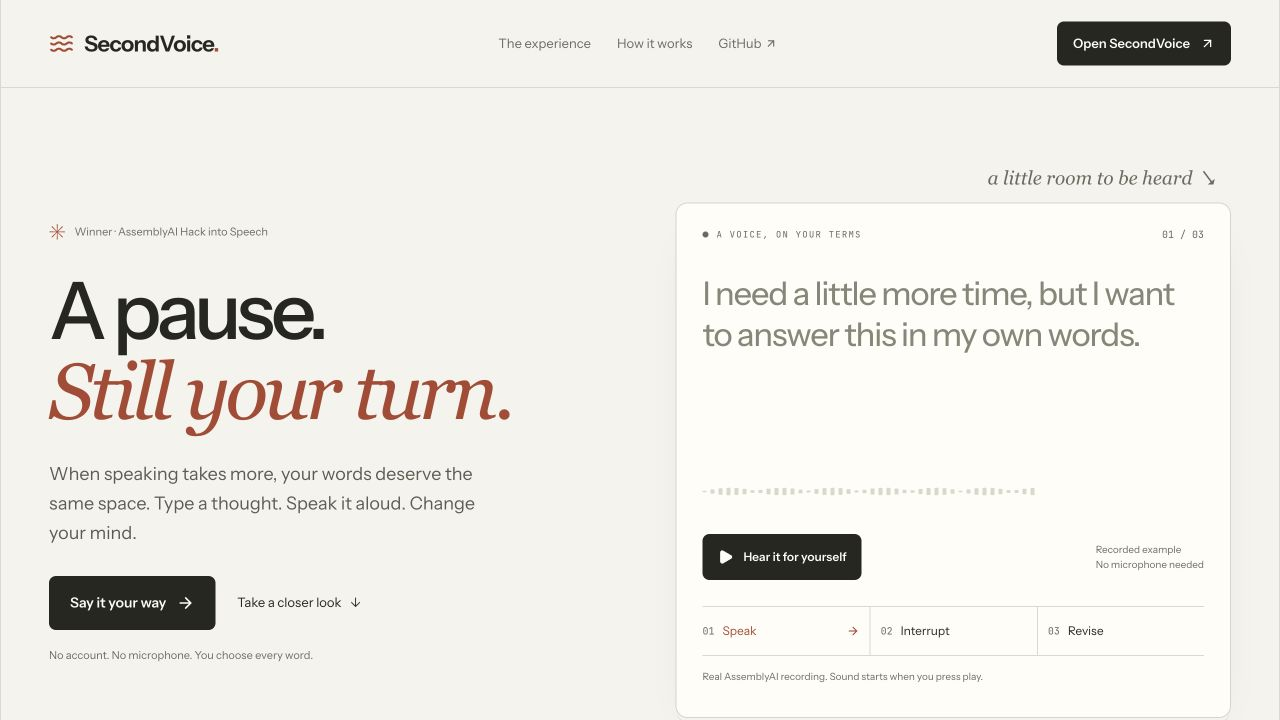
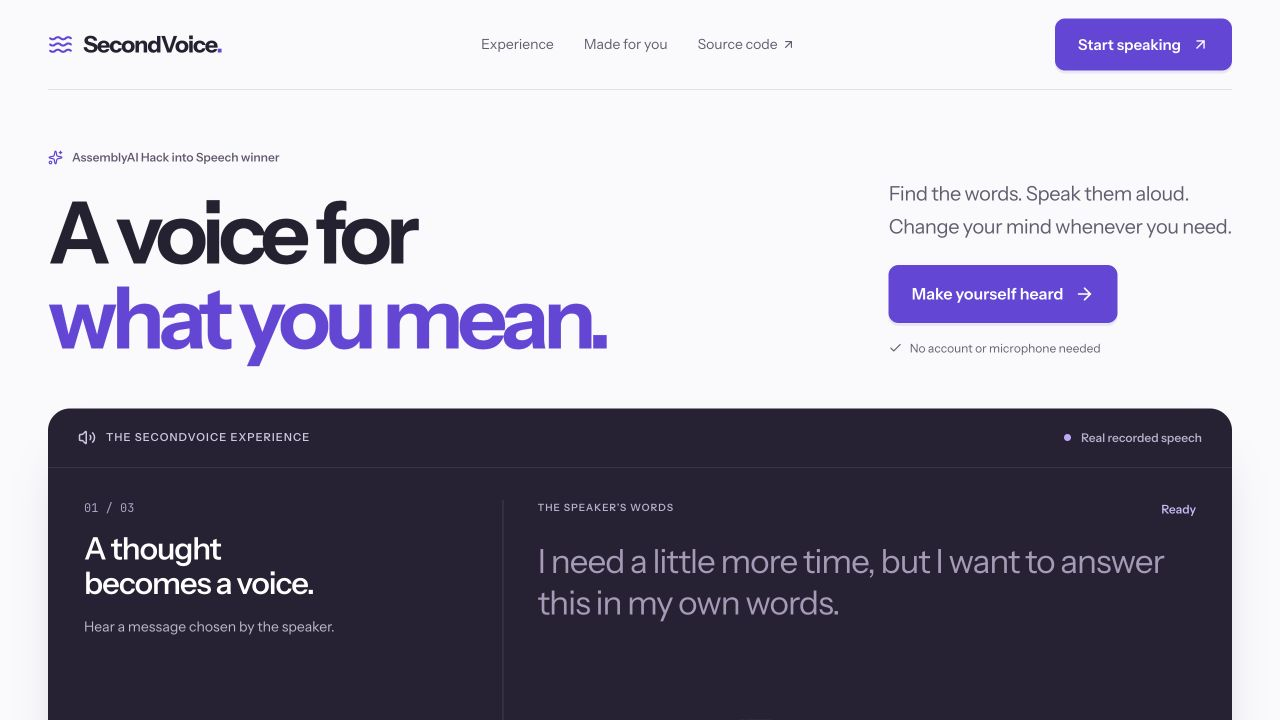
docs: redesigned product screenshots and speech animation

diff --git a/README.md b/README.md
@@ -4,7 +4,7 @@
 
 # SecondVoice
 
-### A pause. Still your turn.
+### A voice for what you mean.
 
 For moments when speaking takes more. Find your words, speak them aloud, and change your mind.
 
@@ -15,7 +15,7 @@ Built solo by [Tarang Goyal](https://github.com/taranggoyal70).
 
 <br />
 
-<a href="https://secondvoice-green.vercel.app"><img src="assets/readme/landing.png" width="100%" alt="SecondVoice’s landing page: A pause. Still your turn, alongside its interactive recorded speech example" /></a>
+<a href="https://secondvoice-green.vercel.app"><img src="assets/readme/landing.png" width="100%" alt="SecondVoice’s redesigned landing page: A voice for what you mean, with a dark interactive speech stage" /></a>
 
 <sub>No account. No microphone. You choose every word.</sub>
 
@@ -178,7 +178,7 @@ tests/                       Playback, lifecycle, phrases and origin checks
 
 SecondVoice is an **assistive communication prototype**, built solo with AI-assisted development. It is not a clinically validated AAC system, emergency communication service, or substitute for an individually assessed communication aid. It uses typed input and stock voices; it does not include voice cloning, automatic rewriting, speech recognition, or an agent system.
 
-Built with **Next.js, React, TypeScript, Web Audio, and AssemblyAI TTS**. The warm editorial presentation takes inspiration from [Continuity](https://github.com/aiden-guan/continuity). SecondVoice’s interface, copy, and implementation are its own. No Continuity source or assets were incorporated.
+Built with **Next.js, React, TypeScript, Web Audio, and AssemblyAI TTS**. The focus on interactive product storytelling takes inspiration from [Continuity](https://github.com/aiden-guan/continuity). SecondVoice’s interface, copy, and implementation are its own. No Continuity source or assets were incorporated.
 
 <div align="center">
 <br />

diff --git a/docs/product-verification.md b/docs/product-verification.md
@@ -39,3 +39,11 @@ Production deployment `dpl_BRsWranA1XUqiQcfBKotKqzZPC2e` reached READY at `https
 `node scripts/verify-deployment.mjs` confirmed public page 200, public short-lived token issuance 200, cross-origin request 403, and the real recording available as WAV. No token value was printed or saved in the verification report.
 
 In the production browser, the landing phrase link opened `/speak?starter=more-time` with the expected editable phrase and no automatic speech. Clicking Speak completed real synthesis and displayed six of six words with a Completed record. The production tab's browser error/warning log was empty.
+
+## Visual redesign — November 10, 2026
+
+The product presentation now uses a bright violet-and-ink identity, a full-width dark recorded speech stage, feature illustrations built in code, and a separate communication workspace with larger controls. The speech ribbon starts and settles with recorded playback state; it is a visual indicator, not a measured audio spectrum. Scroll entrances run once and honor reduced-motion CSS. The live workspace retains its provider-derived energy bars.
+
+Browser checks covered desktop, measured 390px and 320px CSS widths, larger text, high contrast, modal listener presentation, real synthesis completion, and Escape cancellation while preserving a separate next draft. The narrow navigation button was adjusted after inspection. Neither tested width had horizontal document overflow; overflowing waveform bars are clipped within their own visual container. The browser error/warning log was empty.
+
+The README screenshots and silent stop/revise GIF were recaptured from the final production build. The social image kit was refreshed to match. Existing playback, phrase, and origin tests still pass (10), along with lint and the production build. Reduced-motion behavior remains source-reviewed rather than OS-emulated.
